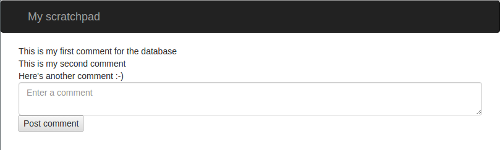
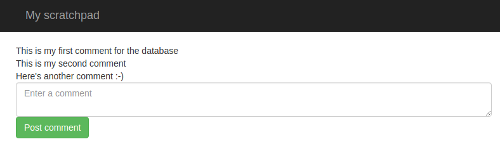
Started work to improve the prettiness of the button on the front page

diff --git a/tutorial-1.md b/tutorial-1.md
@@ -440,6 +440,10 @@ Also add the same to the `<div>` that contains the `<form>`.
 
 For the `<textarea>` tag, add `class="form-control"`.
 
+And finally, add a class to the button so that it looks like this:
+
+    <input type="submit" class="btn btn-success" value="Post comment">
+
 Go to the tab showing your page, and refresh -- it should look like this:
 
 <img width="500" src="/static/images/flask-tutorial-app-with-dummy-content-styled.png">
@@ -490,7 +494,7 @@ If it looks weird and ugly (or, at least, weirder and more ugly than that screen
                 <div class="row">
                     <form action="." method="POST">
                         <textarea class="form-control" name="contents" placeholder="Enter a comment"></textarea>
-                        <input type="submit" value="Post comment">
+                        <input type="submit" class="btn btn-success" value="Post comment">
                     </form>
                 </div>
 
